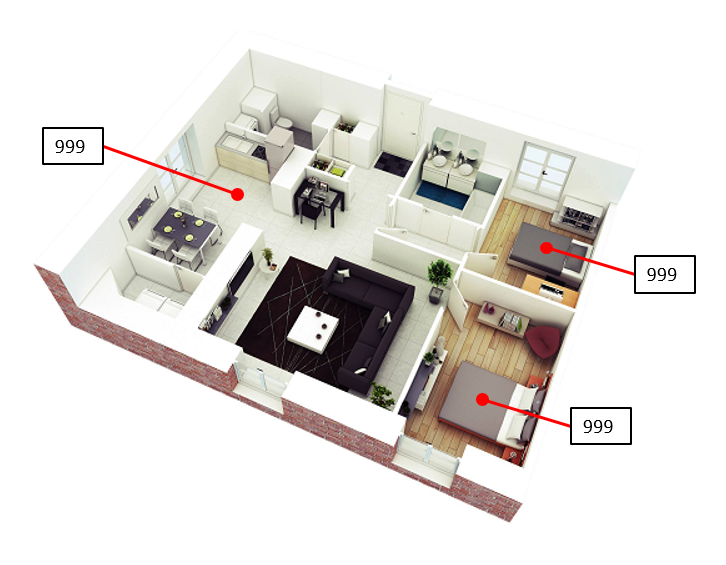
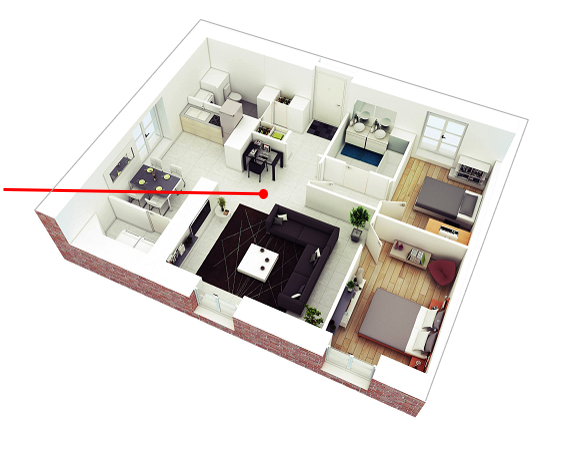
Migration from private EMSOFT repository

Changed region(s): [[0.0, 0.0294, 0.9577, 0.9412], [0.1197, 0.3235, 0.1496, 0.3529]]

diff --git a/Environment.java b/Environment.java
@@ -14,6 +14,7 @@
 //
 package HVACsim;
 
+import java.util.Random;
 import java.util.concurrent.TimeUnit;
 import java.lang.Math;
 import java.text.DecimalFormat;
@@ -38,16 +39,18 @@ public class Environment implements Runnable {
 	//int Zone2temperature = 18;
 	//int Zone3temperature = 18;
 	
-	float Zone1temperature = (float) 15.3;
+	float Zone1temperature = (float) 14.3;
+	float savedZone1temperature = Zone1temperature;
 	float Zone2temperature = (float) 18.7;
 	float Zone3temperature = (float) 19.18;
+	
 	
 	long elapsedTime = System.currentTimeMillis() / 1000;
 	boolean temperatureIncrease = false;
 	
 	// Internal environment control
 	// ============================
-	private static boolean isSilent = true;
+	private static boolean isSilent = false;
 	private HMIui ui;
 	
 	public Environment(HMIui ui) {
@@ -68,6 +71,7 @@ public class Environment implements Runnable {
 		final int MIN_TEMP = -50;
 		int newTemperature = 0;
 		long newElapsedTime = 0;
+		int cycleCount = 0;
 		
 		DecimalFormat df = new DecimalFormat();
 		df.setMaximumFractionDigits(2);
@@ -79,12 +83,39 @@ public class Environment implements Runnable {
 			// RA_BRD BEWARE ! - this won't wrap around properly at midnight, Cinderella....
 			if ((newElapsedTime - elapsedTime) >= 2000) {
 				elapsedTime = newElapsedTime;
-				// Calculate a new random temperature
-				newTemperature = (int) (Math.random() * ((MAX_TEMP - MIN_TEMP) + 1 )) + MIN_TEMP;
-				Zone1temperature = Zone1temperature + ((float) newTemperature / 100);
-				Zone1temperature = Float.valueOf(df.format(Zone1temperature));
-				ui.labelZone3.setText(Zone1temperature + "\u00B0");
-				say("Zone 1 temperature " + Zone1temperature);
+				cycleCount++;
+				
+				if (cycleCount > 10) {
+					int min = 1;
+					int max = 10;
+					int value = 0;
+					Random r = new Random();
+					value = r.nextInt((max - min) + 1) + min;
+					if (value > 9) {
+						// Generate an outlier temperature spike
+						Zone1temperature = Zone1temperature + (float) 10.0;
+						ui.labelZone3.setText(Zone1temperature + "\u00B0");
+						say("Zone 1 temperature " + Zone1temperature);
+					} else {	
+						// Calculate a new random temperature
+						Zone1temperature = savedZone1temperature; 
+						newTemperature = (int) (Math.random() * ((MAX_TEMP - MIN_TEMP) + 1 )) + MIN_TEMP;
+						Zone1temperature = Zone1temperature + ((float) newTemperature / 100);
+						Zone1temperature = Float.valueOf(df.format(Zone1temperature));
+						ui.labelZone3.setText(Zone1temperature + "\u00B0");
+						say("Zone 1 temperature " + Zone1temperature);
+						savedZone1temperature = Zone1temperature;
+					}		
+				} else {	
+					// Calculate a new random temperature
+					Zone1temperature = savedZone1temperature; 
+					newTemperature = (int) (Math.random() * ((MAX_TEMP - MIN_TEMP) + 1 )) + MIN_TEMP;
+					Zone1temperature = Zone1temperature + ((float) newTemperature / 100);
+					Zone1temperature = Float.valueOf(df.format(Zone1temperature));
+					ui.labelZone3.setText(Zone1temperature + "\u00B0");
+					say("Zone 1 temperature " + Zone1temperature);
+					savedZone1temperature = Zone1temperature;
+				}
 			}	
 		
 			Thread.currentThread();

diff --git a/HMIui.java b/HMIui.java
@@ -248,7 +248,7 @@ public class HMIui extends JFrame{
 		layeredPane = new JLayeredPane();
 		
 		// Display the background image on the base layer using a JLabel.
-		icon = new ImageIcon(graphicsPath + "smallRoomLayout.png");   
+		icon = new ImageIcon(graphicsPath + "smallRoomLayout2.png");   
 		label = new JLabel();
 		label.setIcon(icon);
 		label.setBounds(0, 0, icon.getIconWidth(), icon.getIconHeight());
@@ -266,7 +266,7 @@ public class HMIui extends JFrame{
 	//	layeredPane.add(labelZone2, LAYER_1, DEPTH); 
 		
 		labelZone3.setText(Zone1temperature + "\u00B0");
-		labelZone3.setBounds(10, 200, 100, 100);
+		labelZone3.setBounds(10, 118, 100, 100);
 		
 	//	labelZone3.setBounds(200, 150, 100, 100);
 		layeredPane.add(labelZone3, LAYER_1, DEPTH); 	

diff --git a/HVACsim.java b/HVACsim.java
@@ -53,7 +53,7 @@ public class HVACsim {
 		//        inconsistently. Also, fix up magic numbers and since the HMI 
 		//		  automatically resized the window to fit the contents, do we need
 		//        the window height and width parameters?
-		HMIui ui = new HMIui("HVAC Simulator version " + appVersion, 0, 2000, 800, 500); //0, 2000, 800, 500
+		HMIui ui = new HMIui("simbIoTe HVAC Room Simulator", 0, 2000, 800, 500); //0, 2000, 800, 500
 		
 		Environment envr = new Environment(ui);
 		new Thread(envr).start();
